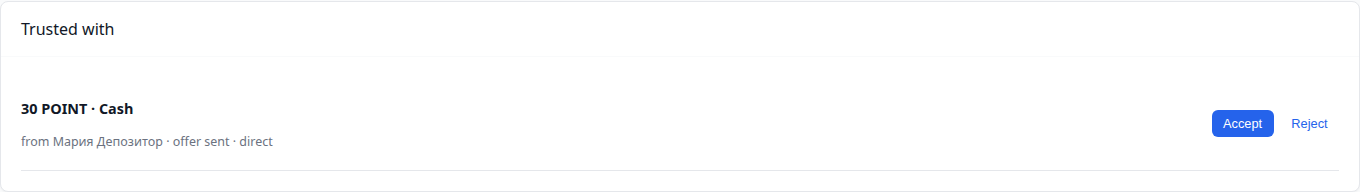
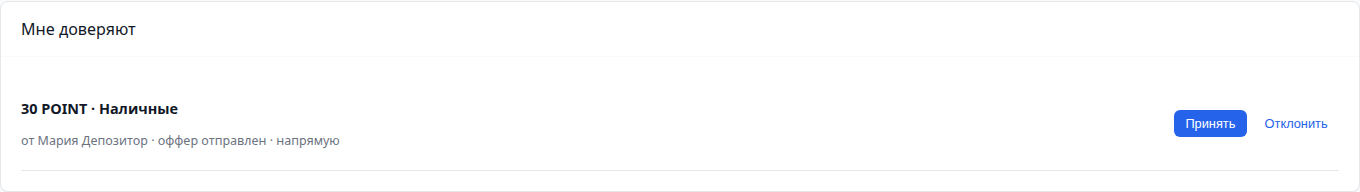
docs(guarantee): two beneficiaries and coverage before deal

diff --git a/docs/concepts/guarantee-demo.md b/docs/concepts/guarantee-demo.md
@@ -2,20 +2,20 @@
 
 Документ для показа Guarantee Engine лидерам сообществ и партнёрам. Внутри — подготовка, пошаговый сценарий со скриншотами, тексты для Telegram и запасные варианты.
 
-Скриншоты сняты с демо-аккаунтов на тестовом стенде, не с реальных пользователей. Реальные имена, почты и телефоны в кадр не попадают.
+Скриншоты сняты с демо-аккаунтов на тестовом стенде, не с реальных пользователей. Реальные имена, почты и телефоны в кадр не попадают. Интерфейс — на русском.
 
 ## Что показываем
 
 Три идеи, которые должны остаться у зрителя:
 
 1. Платформа не хранит деньги: депозит лежит у поручителя, а система фиксирует подтверждения.
-2. Оператор не нужен на каждом шаге: он появляется только в споре и при настройках пилота.
+2. В сделке участвуют два бенефициара, и за каждого ручаются свои поручители.
 3. Один депозит нельзя использовать дважды: покрытие блокируется под конкретную сделку и только частично.
 
 ## Формат
 
 - **Короткий, 5 минут** — распределение, подтверждение, сделка, выплата.
-- **Полный, 10–12 минут** — плюс лимиты уровней, частичная блокировка, возврат депозитора.
+- **Полный, 10–12 минут** — плюс две группы поручителей, частичная блокировка, возврат депозитора.
 
 Ниже полный сценарий; для короткого варианта убираются шаги 6 и часть объяснений.
 
@@ -25,10 +25,12 @@
 
 | Роль | Имя в демо | Что настроено |
 |---|---|---|
-| Депозитор | Мария Депозитор | счёт не нужен, Telegram привязан |
-| Поручитель 1 | Иван Поручитель | счёт, профиль: POINT / Cash, залог 200 |
-| Поручитель 2 | Анна Поручитель | счёт, профиль: POINT / Cash, залог 200 |
-| Бенефициар | Олег Бенефициар | счёт не нужен |
+| Бенефициар 1 (создатель сделки) | Мария Депозитор | счёт не нужен, Telegram привязан |
+| Поручитель Марии | Иван Поручитель | счёт, профиль POINT / Cash, залог 200 |
+| Поручитель Марии | Анна Поручитель | счёт, профиль POINT / Cash, залог 200 |
+| Бенефициар 2 (получатель) | Олег Бенефициар | счёт не нужен, Telegram привязан |
+| Поручитель Олега | Павел Поручитель | счёт, профиль POINT / Cash, залог 200 |
+| Поручитель Олега | Ольга Поручитель | счёт, профиль POINT / Cash, залог 200 |
 | Оператор | Ольга Оператор | владелец Platform, видит очередь рекламаций |
 
 ### Настройки
@@ -36,7 +38,7 @@
 - `guarantee.mode = pilot`;
 - `guarantee.test_limit = 1000`;
 - `guarantee.operator_group_ids` — группа «Гарантии»;
-- у поручителей есть залог: без него нельзя принять передачу.
+- у всех поручителей есть залог: без него нельзя принять передачу.
 
 ### Telegram
 
@@ -46,8 +48,7 @@
 
 ### Окна
 
-- два окна браузера рядом: депозитор и поручитель;
-- отдельная вкладка оператора;
+- четыре окна браузера: Мария, Иван, Олег и оператор;
 - Telegram на втором экране.
 
 ## Сценарий
@@ -56,67 +57,78 @@
 
 ![Мой депозит до операции](../assets/guarantee-demo/01-deposit-empty.png)
 
-Говорим: у депозитора нет счёта, и это нормально. Деньги пойдут напрямую поручителям. «Всего», «На счёте», «У поручителей» и «Под сделками» — это четыре разных ответа на вопрос «где мои деньги».
+Говорим: у Марии нет счёта, и это нормально. Деньги пойдут напрямую поручителям. «Всего», «На счёте», «У поручителей» и «Под сделками» — это четыре разных ответа на вопрос «где мои деньги».
 
 ### 2. Распределение депозита
 
-Депозитор: **«Распределить депозит»** → 60 POINT → **«Поровну»** → Иван и Анна → отправить.
+Мария: **«Распределить депозит»** → 60 POINT → **«Поровну»** → Иван и Анна → отправить.
 
 ![Распределение между двумя поручителями](../assets/guarantee-demo/02-distribute-modal.png)
 
 Говорим: одна операция создаёт две прямые передачи. Оператор не участвует, платформа денег не касается.
 
-У каждого поручителя появляется оффер:
+У Ивана появляется оффер:
 
 ![Оффер у поручителя](../assets/guarantee-demo/03-guarantor-offer.png)
 
+Параллельно Олег так же распределяет свои 60 POINT между Павлом и Ольгой. Это второй бенефициар со своей группой поручителей.
+
 ### 3. Подтверждение получения
 
-Иван и Анна принимают оффер, депозитор отмечает отправку, поручители подтверждают получение.
+Иван и Анна принимают офферы, Мария отмечает отправку, поручители подтверждают получение. То же самое делают Павел и Ольга для Олега.
 
-![Депозит после подтверждения](../assets/guarantee-demo/04-deposit-confirmed.png)
+![Депозит Марии после подтверждения](../assets/guarantee-demo/04-deposit-confirmed.png)
 
 Говорим: подтверждение получателя — и есть бухгалтерская запись. Пока поручитель не подтвердил, деньги не входят в покрытие.
 
-### 4. Сделка и блокировка
+### 4. Сделка между бенефициарами
 
-Депозитор создаёт сделку на 30 POINT с бенефициаром.
+Мария создаёт сделку на 30 POINT с Олегом. В окне сразу видно её покрытие и поручителей.
 
-![Создание сделки](../assets/guarantee-demo/05-deal-modal.png)
+![Создание сделки: покрытие Марии](../assets/guarantee-demo/05-deal-modal.png)
 
-Бенефициар принимает — покрытие блокируется.
+Олег открывает сделку и перед принятием видит **обе стороны**: кто создатель, кто бенефициар, какое у каждого покрытие и кто за кого ручается.
 
-![Заблокировано 30 из 60](../assets/guarantee-demo/06-deal-locked.png)
+![Покрытие сделки: обе стороны и их поручители](../assets/guarantee-demo/06-deal-coverage.png)
+
+Говорим: это и есть ответ на вопрос «кому я доверяю». Не абстрактный рейтинг, а конкретные люди и суммы.
+
+### 5. Блокировка и возврат
+
+Олег принимает — покрытие Марии блокируется на 30.
+
+![Заблокировано 30 из 60](../assets/guarantee-demo/07-deal-locked.png)
 
 Говорим: блокируется ровно сумма сделки, а не вся передача. Вторая передача на 30 остаётся свободной.
 
 Возврат заблокированной части недоступен:
 
-![Возврат заблокирован](../assets/guarantee-demo/07-return-blocked.png)
+![Возврат заблокирован](../assets/guarantee-demo/08-return-blocked.png)
 
-### 5. Спор
+### 6. Спор
 
-Депозитор открывает рекламацию. Оператор видит её в отдельной очереди и выбирает решение.
+Мария открывает рекламацию. Оператор видит её в отдельной очереди и выбирает решение.
 
-![Очередь рекламаций у оператора](../assets/guarantee-demo/09-dispute-open.png)
+![Очередь рекламаций у оператора](../assets/guarantee-demo/10-dispute-queue.png)
 
 Настройки пилота — режим, лимит, операторские группы (только владелец/админ Platform):
 
-![Настройки пилота](../assets/guarantee-demo/08-owner-settings.png)
+![Настройки пилота](../assets/guarantee-demo/09-owner-settings.png)
 
 Говорим: оператор появляется только здесь. В обычных передачах его нет.
 
-### 6. Выплата
+### 7. Выплата
 
-Оператор выбирает **«Pay beneficiary»**, поручитель подтверждает выплату.
+Оператор выбирает **«Выплатить бенефициару»**, поручитель подтверждает выплату.
 
-![Итог после выплаты](../assets/guarantee-demo/10-payout-result.png)
+![Итог после выплаты](../assets/guarantee-demo/11-payout-result.png)
 
 Говорим: выплата уменьшает передачу, а не закрывает её целиком. «Под сделками» снова 0, у поручителя остаётся 30.
 
 ## Что говорить
 
-- Платформа не кастодиан: у депозитора нет счёта, деньги у поручителя.
+- Платформа не кастодиан: у бенефициара нет счёта, деньги у поручителя.
+- В сделке две стороны, и у каждой — свои поручители; до принятия видно, кто за кого ручается.
 - Оператор не подтверждает каждый депозит — только споры, проверку поручителей в live и настройки.
 - Залог поручителя — его собственный резерв; он ограничивает, сколько гарантий можно выдать.
 - Пилот: POINT, лимит 1000 на пользователя, конвертации нет.
@@ -128,7 +140,7 @@
 
 ```
 Новый оффер депозита
-30 POINT на хранение, способ: Cash
+30 POINT на хранение, способ: Наличные
 https://app.tribe.partnr.icu/guarantee
 ```
 
@@ -140,6 +152,11 @@ https://app.tribe.partnr.icu/guarantee
 ```
 Получение подтверждено
 30 POINT под гарантией поручителя
+```
+
+```
+Новая сделка под гарантию
+30 POINT: поставка до пятницы
 ```
 
 ```
@@ -155,17 +172,18 @@ https://app.tribe.partnr.icu/guarantee
 |---|---|
 | Telegram не пришёл | показываем колокольчик и скриншот сообщения |
 | Поручитель не подтверждает | это часть истории: «пока не подтвердил — покрытия нет» |
-| Сделка не принимается | проверяем свободное покрытие и лимит уровня |
+| Сделка не принимается | проверяем свободное покрытие создателя и лимит уровня |
+| Второй бенефициар без поручителей | показываем, что у него нет покрытия, — так выглядит отказ от доверия |
 | Оператор не видит рекламацию | проверяем, что он владелец/админ Platform и открыл `/guarantee` |
 | Сумма больше лимита | используем 30–60 POINT, это ниже T0/T1 |
 
 ## Чек-лист за 10 минут
 
 - [ ] режим `pilot`, лимит 1000;
-- [ ] у поручителей есть залог и профили POINT / Cash;
-- [ ] депозитор и бенефициар без счёта — так и задумано;
+- [ ] у четырёх поручителей есть залог и профили POINT / Cash;
+- [ ] у Марии и Олега распределены депозиты, все передачи подтверждены;
 - [ ] у всех привязан Telegram, `notify_telegram` включён;
-- [ ] открыты три окна: депозитор, поручитель, оператор;
+- [ ] открыты четыре окна: Мария, Иван, Олег, оператор;
 - [ ] проверено одно тестовое уведомление;
 - [ ] скриншоты из этого документа открыты как резерв;
 - [ ] на проде нет открытых передач и сделок от прошлых прогонов.
@@ -173,6 +191,7 @@ https://app.tribe.partnr.icu/guarantee
 ## Ограничения, о которых честно говорим
 
 - в пилоте тестовые единицы поручителям выдаёт оператор;
+- покрытие бенефициара показывается как его собственная гарантия, но при принятии блокируется только покрытие создателя — двусторонняя блокировка и выплата в обе стороны это следующий этап;
 - залог поручителя при выплате освобождается, а не списывается — решение ещё открыто;
 - live-режим в USDT не прогнан на реальном сообществе;
 - переход в live блокируется, пока есть открытые пилотные операции.
@@ -185,6 +204,6 @@ https://app.tribe.partnr.icu/guarantee
 make demo-shots
 ```
 
-Тест поднимает e2e-стенд, создаёт демо-аккаунты, проходит сценарий и сохраняет PNG в `tribe-docs/docs/assets/guarantee-demo/`. Файл: `apps/tribe-front/tests/e2e/demo-shots.spec.ts`. Без переменной `DEMO_SHOTS=1` тест пропускается.
+Тест поднимает e2e-стенд, создаёт двух бенефициаров и четырёх поручителей, проходит сценарий и сохраняет PNG в `tribe-docs/docs/assets/guarantee-demo/`. Файл: `apps/tribe-front/tests/e2e/demo-shots.spec.ts`. Без переменной `DEMO_SHOTS=1` тест пропускается. Локаль демо-аккаунтов — русская, чтобы скриншоты совпадали с языком документа.
 
 Связанные документы: [Guarantee Engine](../modules/guarantee.md), [Пилот сети гарантий](guarantee-network-pilot.md).
